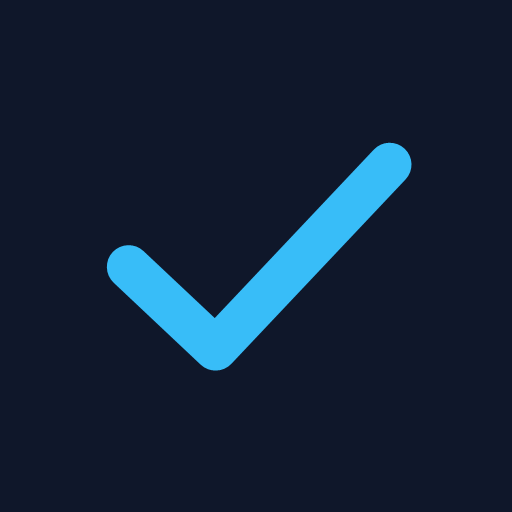
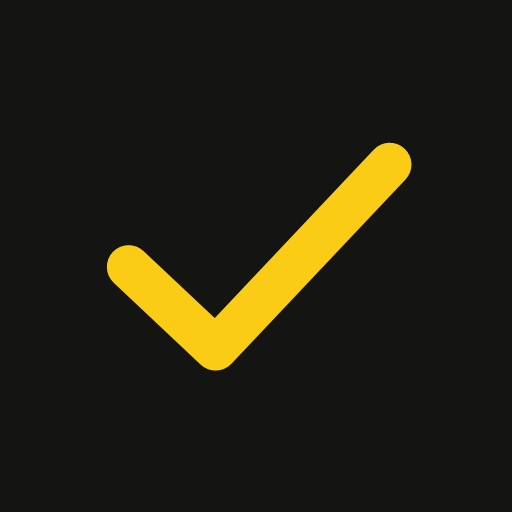
Kleurenschema; roodomrand veld als categorie niet klopt

Changed region(s): [[0.1875, 0.2812, 0.8125, 0.75]]

diff --git a/styles.css b/styles.css
@@ -1,17 +1,17 @@
 :root {
-    --bg: #0f172a;
-    --panel: #111827;
-    --panel-alt: #1f2937;
-    --card: #f8fafc;
-    --card-muted: #e2e8f0;
-    --text: #e2e8f0;
-    --text-soft: #cbd5e1;
-    --accent: #38bdf8;
-    --accent-strong: #0ea5e9;
-    --success: #22c55e;
-    --warning: #f59e0b;
+    --bg: #141512;
+    --panel: #1d1f1b;
+    --panel-alt: #292b26;
+    --card: #343630;
+    --card-muted: #454840;
+    --text: #f0f1eb;
+    --text-soft: #b9bdb2;
+    --accent: #facc15;
+    --accent-strong: #eab308;
+    --success: #84cc16;
+    --warning: #facc15;
     --danger: #ef4444;
-    --shadow: rgba(15, 23, 42, 0.45);
+    --shadow: rgba(0, 0, 0, 0.42);
 }
 
 * {
@@ -24,7 +24,7 @@ body {
     min-height: 100dvh;
     display: grid;
     place-items: center;
-    background: linear-gradient(135deg, #020817 0%, #111827 48%, #0f172a 100%);
+    background: linear-gradient(135deg, #11120f 0%, #20211d 48%, #151612 100%);
     color: var(--text);
     font-family: "Segoe UI", Tahoma, Geneva, Verdana, sans-serif;
 }
@@ -77,7 +77,7 @@ textarea {
 }
 
 .task-dialog::backdrop {
-    background: rgba(2, 8, 23, 0.78);
+    background: rgba(10, 11, 9, 0.82);
     backdrop-filter: blur(4px);
 }
 
@@ -119,8 +119,8 @@ h1 {
 }
 
 .panel {
-    background: rgba(17, 24, 39, 0.9);
-    border: 1px solid rgba(148, 163, 184, 0.22);
+    background: rgba(29, 31, 27, 0.94);
+    border: 1px solid rgba(185, 189, 178, 0.18);
     border-radius: 18px;
     box-shadow: 0 20px 45px var(--shadow);
     backdrop-filter: blur(12px);
@@ -158,10 +158,15 @@ h1 {
 .task-editor textarea {
     width: 100%;
     padding: 12px 14px;
-    border: 1px solid rgba(148, 163, 184, 0.35);
+    border: 1px solid rgba(185, 189, 178, 0.3);
     border-radius: 12px;
-    background: rgba(15, 23, 42, 0.7);
+    background: rgba(20, 21, 18, 0.82);
     color: var(--text);
+}
+
+.todo-form .category-invalid {
+    border-color: var(--danger);
+    box-shadow: 0 0 0 2px rgba(239, 68, 68, 0.28);
 }
 
 .todo-form textarea,
@@ -195,7 +200,7 @@ h1 {
     padding: 12px 18px;
     font-weight: 700;
     background: linear-gradient(135deg, var(--accent), var(--accent-strong));
-    color: white;
+    color: #24240f;
 }
 
 .primary-btn.small,
@@ -230,9 +235,9 @@ h1 {
 .sort-control select {
     min-width: 175px;
     padding: 10px 12px;
-    border: 1px solid rgba(148, 163, 184, 0.35);
+    border: 1px solid rgba(185, 189, 178, 0.3);
     border-radius: 12px;
-    background: rgba(15, 23, 42, 0.7);
+    background: rgba(20, 21, 18, 0.82);
     color: var(--text);
 }
 
@@ -244,8 +249,8 @@ h1 {
 
 .secondary-btn {
     padding: 10px 14px;
-    background: rgba(239, 68, 68, 0.1);
-    color: #fecaca;
+    background: rgba(185, 189, 178, 0.12);
+    color: var(--text);
 }
 
 .todo-list {
@@ -256,7 +261,7 @@ h1 {
 
 .todo-item {
     padding: 16px 18px;
-    border-top: 1px solid rgba(148, 163, 184, 0.15);
+    border-top: 1px solid rgba(185, 189, 178, 0.14);
 }
 
 .todo-item:first-child {
@@ -337,32 +342,32 @@ h1 {
 }
 
 .badge.category {
-    background: rgba(56, 189, 248, 0.12);
-    color: #bae6fd;
+    background: rgba(185, 189, 178, 0.13);
+    color: #d8dbd2;
 }
 
 .badge.low {
-    background: rgba(34, 197, 94, 0.16);
-    color: #bbf7d0;
+    background: rgba(132, 204, 22, 0.16);
+    color: #bef264;
 }
 
 .badge.medium {
-    background: rgba(245, 158, 11, 0.18);
-    color: #fde68a;
+    background: rgba(185, 189, 178, 0.14);
+    color: #d8dbd2;
 }
 
 .badge.high {
-    background: rgba(239, 68, 68, 0.18);
-    color: #fecaca;
+    background: rgba(250, 204, 21, 0.16);
+    color: #fde047;
 }
 
 .badge.very-high {
-    background: rgba(168, 85, 247, 0.2);
-    color: #e9d5ff;
+    background: rgba(250, 204, 21, 0.28);
+    color: #fef08a;
 }
 
 .badge.date {
-    background: rgba(148, 163, 184, 0.12);
+    background: rgba(185, 189, 178, 0.1);
     color: var(--text-soft);
 }
 
@@ -438,7 +443,7 @@ h1 {
     }
 }
 
-.todo-form .secondary-btn { background: rgba(148, 163, 184, 0.16); color: var(--text); }
+.todo-form .secondary-btn { background: rgba(185, 189, 178, 0.14); color: var(--text); }
 
 .periodic-toggle input {
     width: 18px;

diff --git a/app.js b/app.js
@@ -37,9 +37,24 @@ const categoryFilterSelect = document.querySelector('#category-filter');
 const taskDialog = document.querySelector('#task-dialog');
 const dialogTitle = document.querySelector('#task-dialog-title');
 const submitTaskButton = document.querySelector('#submit-task');
+let categoryValidationAttempted = false;
+
+function updateCategoryValidation() {
+    const categoryNeedsName = categorySelect.value === '__new__';
+    const categoryIsMissing = !categorySelect.value;
+    const newCategoryIsMissing = categoryNeedsName && !newCategoryInput.value.trim();
+    const invalid = categoryValidationAttempted && (categoryIsMissing || newCategoryIsMissing);
+
+    categorySelect.classList.toggle('category-invalid', invalid);
+    newCategoryInput.classList.toggle('category-invalid', invalid);
+    if (!categoryIsMissing && !newCategoryIsMissing) {
+        categoryValidationAttempted = false;
+    }
+}
 
 function openTaskDialog(task = null) {
     state.editingId = task?.id || null;
+    categoryValidationAttempted = false;
     dialogTitle.textContent = task ? 'Edit task' : 'Add task';
     submitTaskButton.textContent = task ? 'Save changes' : 'Add task';
     form.reset();
@@ -69,6 +84,7 @@ function closeTaskDialog() {
         taskDialog.removeAttribute('open');
     }
     state.editingId = null;
+    categoryValidationAttempted = false;
     form.reset();
     priorityInput.value = 'medium';
     refreshCategoryOptions();
@@ -407,6 +423,8 @@ form.addEventListener('submit', (event) => {
     if (selectedCategory === '__new__') {
         const newCategory = newCategoryInput.value.trim();
         if (!newCategory) {
+            categoryValidationAttempted = true;
+            updateCategoryValidation();
             newCategoryInput.focus();
             return;
         }
@@ -508,7 +526,17 @@ categoryFilterSelect.addEventListener('change', () => {
     render();
 });
 
-categorySelect.addEventListener('change', updateNewCategoryVisibility);
+categorySelect.addEventListener('change', () => {
+    updateNewCategoryVisibility();
+    updateCategoryValidation();
+});
+newCategoryInput.addEventListener('input', updateCategoryValidation);
+form.addEventListener('invalid', (event) => {
+    if (event.target === categorySelect || event.target === newCategoryInput) {
+        categoryValidationAttempted = true;
+        updateCategoryValidation();
+    }
+}, true);
 
 importButton.addEventListener('click', () => {
     importInput.click();

diff --git a/index.html b/index.html
@@ -5,7 +5,7 @@
     <meta charset="UTF-8" />
     <meta name="viewport" content="width=device-width, initial-scale=1.0" />
     <title>To-Do Manager</title>
-    <meta name="theme-color" content="#0f172a" />
+    <meta name="theme-color" content="#141512" />
     <meta name="mobile-web-app-capable" content="yes" />
     <meta name="apple-mobile-web-app-capable" content="yes" />
     <link rel="manifest" href="manifest.webmanifest" />

diff --git a/service-worker.js b/service-worker.js
@@ -1,4 +1,4 @@
-const CACHE_NAME = 'todo-manager-pages-v2';
+const CACHE_NAME = 'todo-manager-pages-v3';
 const APP_FILES = [
     './',
     './index.html',
